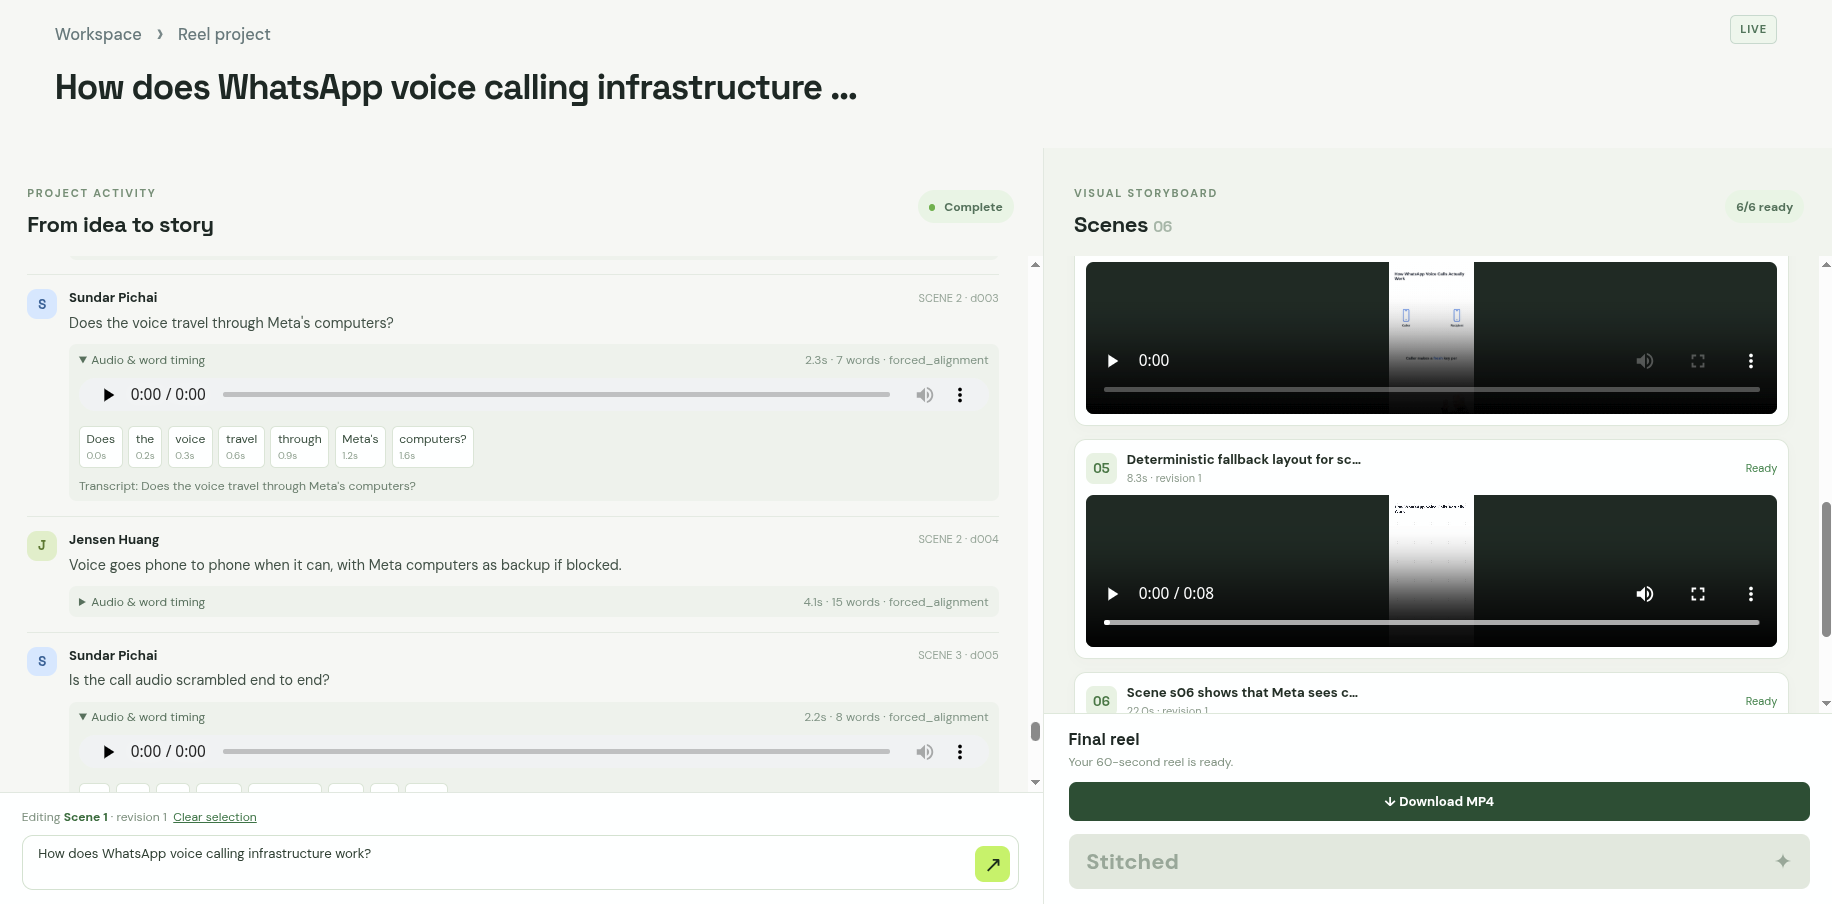
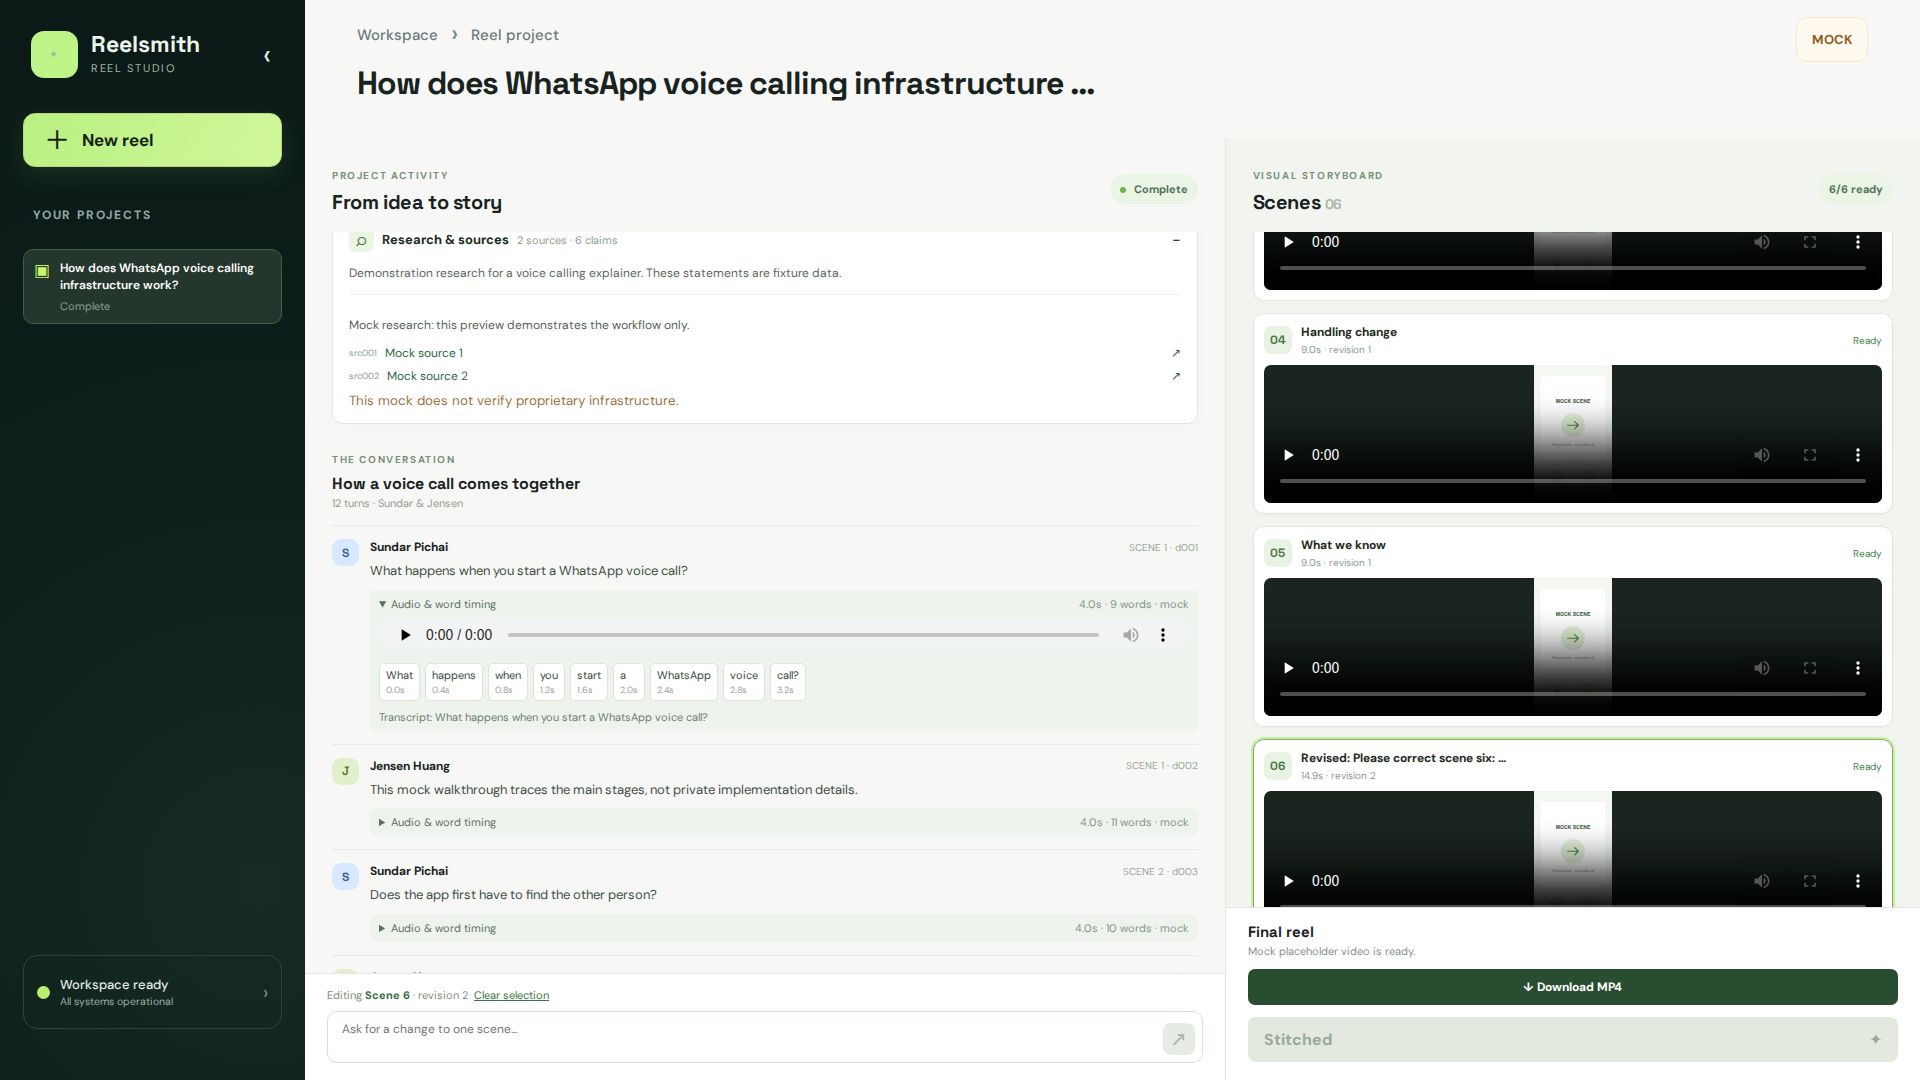
Update README screenshots

diff --git a/README.md b/README.md
@@ -25,7 +25,7 @@ The video uses a white dotted notebook background. The upper 70% is a workboard 
 
 ## Screenshots
 
-Follow the workflow from topic to reel, in chronological order.
+Follow the workflow from topic to reel, in chronological order. These were captured in the editor's demo mode (`?mock=1`), so research, audio, and scene previews show placeholder data.
 
 ![Reelsmith workflow — step 1](assets/ss/one.png)
 
